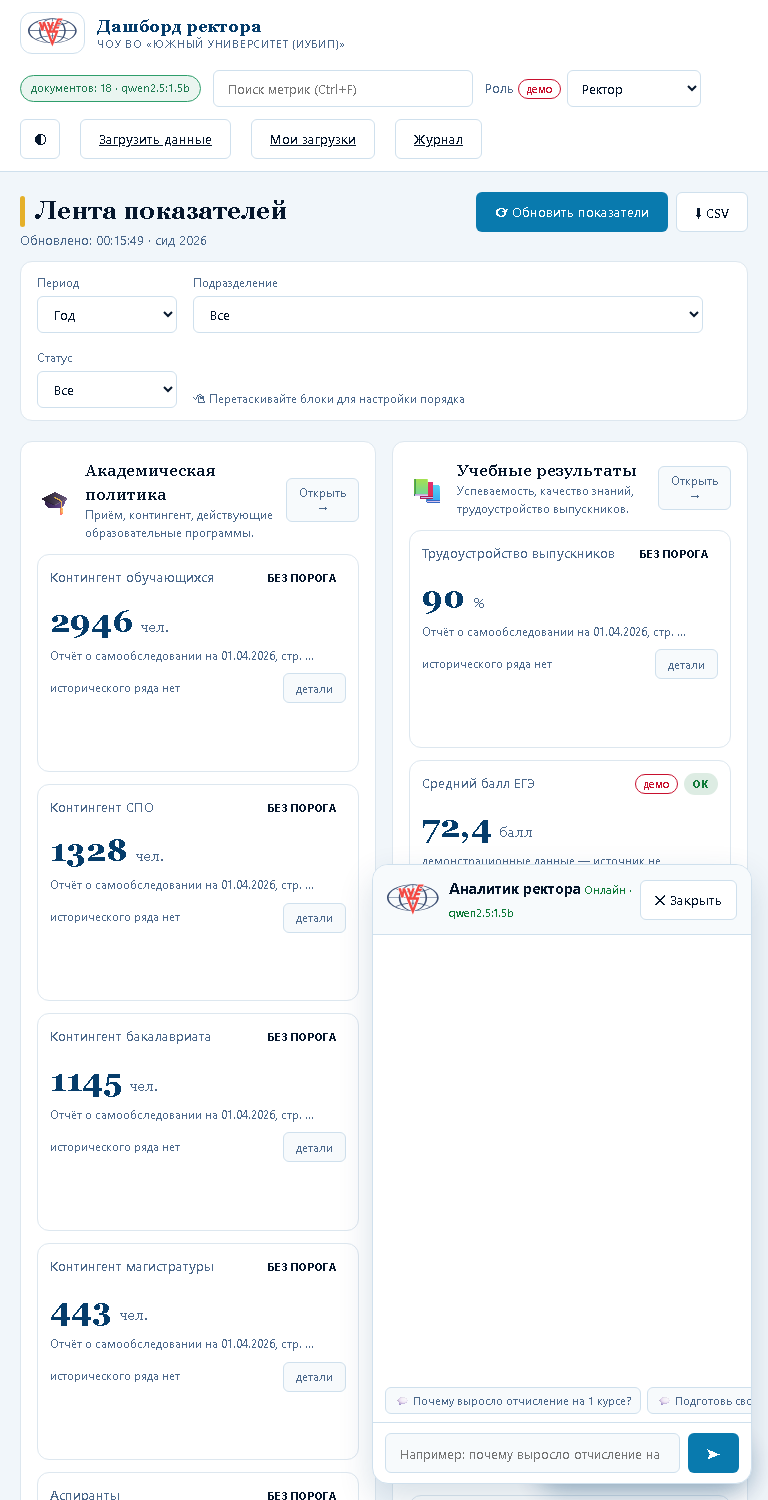
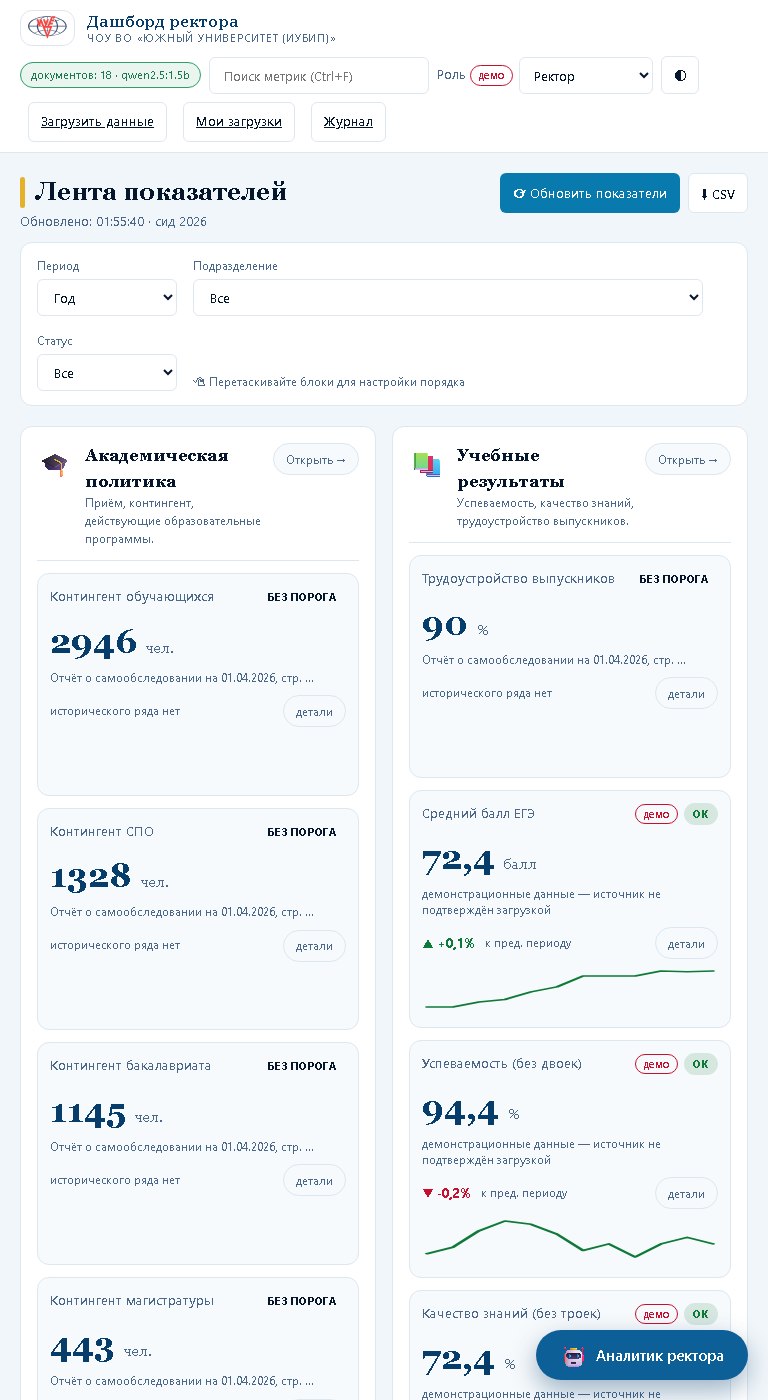
Токены в базовые правила и плотная вёрстка
Слой-надстройка в конце style.css перенесён в базовые правила:
четыре ступени поверхностей, hairline вместо теней, три радиуса,
вес не выше 600, плоские карточки с линией вместо второй рамки.
Файл читается как одна система, а не «старое плюс заплатка».

Заметные изменения: заголовок блока крупнее и подчёркнут линией,
кнопка «Открыть» вынесена в угол и больше не сжимает текст, шапка
и контролы компактнее, крупная цифра 34px.

Снимки «после» пересняты для трёх экранов в трёх ширинах.

diff --git a/web/css/style.css b/web/css/style.css
@@ -5,10 +5,14 @@
    светлая azure-подложка, белые карточки, navy-акцент, янтарь для
    главных действий, серифные заголовки, капсульные контролы. */
 :root {
-  --bg: #ebf7ff;                /* его --surface: светлый бирюзовый тон */
+  /* Четыре ступени поверхностей. Раньше карточки отличались от фона
+     только тенью — на проекторе это выглядело как грязь. */
+  --bg: #f1f6fa;
   --surface: #ffffff;
-  --surface-2: #f4fafd;
-  --border: #cfe0ed;            /* его --line */
+  --surface-2: #f7fafc;
+  --surface-3: #ffffff;
+  --border: #dde7ef;            /* hairline-граница */
+  --border-strong: #c2d3e1;     /* граница при наведении */
   --text: #06172d;              /* его --ink */
   --muted: #4b688b;             /* его --ink-soft */
   --primary: #097aae;           /* его --azure */
@@ -22,20 +26,26 @@
   --green: #0f7a38;
   --yellow: #a8801a;
   --red: #c8102e;
-  --shadow: 0 1px 3px rgba(6, 61, 107, .08), 0 2px 8px rgba(6, 61, 107, .06);
-  --shadow-lg: 0 12px 32px rgba(6, 61, 107, .16);
-  --radius: 16px;
-  --radius-sm: 10px;
+  --shadow: none;               /* карточки плоские: разделяет граница */
+  --shadow-lg: 0 14px 34px rgba(6, 61, 107, .16);  /* только всплывающее */
+  /* Три радиуса на всю систему: контролы, карточки, статусы. */
+  --r-control: 6px;
+  --r-card: 12px;
+  --r-pill: 999px;
+  --radius: var(--r-card);
+  --radius-sm: var(--r-control);
   --font-display: Georgia, "Times New Roman", serif;
   --fab-bg: #0c5f97;            /* пилюля чата: navy днём, белая ночью */
   --fab-fg: #ffffff;
   --fab-shadow: 0 10px 26px rgba(6, 61, 107, .38);
 }
 html[data-theme="dark"] {
-  --bg: #0f0f0f;                /* его тёмная подложка */
-  --surface: #1f1f1f;
-  --surface-2: #262626;
-  --border: #383838;
+  --bg: #0c0d0e;
+  --surface: #141516;
+  --surface-2: #1b1c1e;
+  --surface-3: #202225;
+  --border: #2a2c30;
+  --border-strong: #3a3d42;
   --text: #f5f5f5;
   --muted: #adadad;
   --primary: #0b78ab;
@@ -48,8 +58,8 @@ html[data-theme="dark"] {
   --green: #2fa363;
   --yellow: #d9a441;
   --red: #e35d6a;
-  --shadow: 0 1px 3px rgba(0,0,0,.4);
-  --shadow-lg: 0 12px 32px rgba(0,0,0,.55);
+  --shadow: none;
+  --shadow-lg: 0 14px 34px rgba(0,0,0,.6);
   --fab-bg: #ffffff;
   --fab-fg: #141414;
   --fab-shadow: 0 10px 26px rgba(0,0,0,.6);
@@ -71,7 +81,7 @@ body {
    Georgia, цифры-итоги — тоже. */
 h1, h2, h3, h4, .brand-text strong, .page-head h1, .page-head h2 {
   font-family: var(--font-display);
-  font-weight: 700;
+  font-weight: 600;
   letter-spacing: -.01em;
 }
 button { font-family: inherit; cursor: pointer; }
@@ -83,7 +93,7 @@ input, select, textarea { font-family: inherit; }
 
 /* ============ Шапка ============ */
 .app-header { position: sticky; top: 0; z-index: 20; background: var(--surface); border-bottom: 1px solid var(--border); }
-.header-inner { max-width: 1280px; margin: 0 auto; padding: 12px 20px; display: flex; align-items: center; justify-content: space-between; gap: 16px; flex-wrap: wrap; }
+.header-inner { max-width: 1280px; margin: 0 auto; padding: 10px 20px; display: flex; align-items: center; justify-content: space-between; gap: 10px; flex-wrap: wrap; }
 .brand { display: flex; align-items: center; gap: 12px; }
 /* Бренд-блок — ссылка на главную: с ленты иначе не вернуться,
    кроме «назад» браузера. */
@@ -92,26 +102,26 @@ a.brand:hover strong { color: var(--primary); }
 /* Плитка под логотип: белый квадрат со скруглением — как logo-tile
    в его шапке. Знак рассчитан на белый фон, поэтому всегда на белом. */
 .brand-logo {
-  height: 42px; width: auto; flex-shrink: 0;
+  height: 36px; width: auto; flex-shrink: 0;
   background: #fff; border: 1px solid var(--border);
   border-radius: 12px; padding: 5px 7px;
 }
 .brand-mark { width: 42px; height: 42px; border-radius: 12px; background: linear-gradient(135deg, var(--navy), var(--primary)); color: #fff; display: flex; align-items: center; justify-content: center; font-weight: 700; font-size: 15px; }
 .brand-text { display: flex; flex-direction: column; line-height: 1.25; }
-.brand-text strong { font-size: 17px; color: var(--navy-deep); }
+.brand-text strong { font-size: 16px; color: var(--navy-deep); }
 html[data-theme="dark"] .brand-text strong { color: #fff; }
 .brand-text span {
   font-size: 11px; text-transform: uppercase; letter-spacing: .07em;
   color: var(--muted);
 }
-.header-controls { display: flex; align-items: center; gap: 12px; flex-wrap: wrap; }
+.header-controls { display: flex; align-items: center; gap: 8px; flex-wrap: wrap; }
 .search-wrap { position: relative; }
-.search-wrap input { width: 260px; max-width: 70vw; padding: 9px 34px 9px 14px; border: 1px solid var(--border); border-radius: 999px; background: var(--surface); color: var(--text); }
+.search-wrap input { width: 220px; max-width: 70vw; padding: 9px 34px 9px 14px; border: 1px solid var(--border); border-radius: var(--radius-sm); background: var(--surface); color: var(--text); }
 .search-wrap input:focus { outline: none; border-color: var(--primary); box-shadow: 0 0 0 3px rgba(9,122,174,.18); }
 .search-badge { position: absolute; right: 8px; top: 50%; transform: translateY(-50%); background: var(--primary); color: #fff; font-size: 11px; border-radius: 999px; padding: 1px 7px; }
 .role-switch { display: flex; align-items: center; gap: 6px; font-size: 13px; color: var(--muted); }
-.role-switch select { padding: 8px 10px; border: 1px solid var(--border); border-radius: 999px; background: var(--surface); color: var(--text); }
-.icon-btn { width: 40px; height: 40px; border-radius: 999px; border: 1px solid var(--border); background: var(--surface); color: var(--text); font-size: 16px; display: inline-flex; align-items: center; justify-content: center; }
+.role-switch select { padding: 8px 10px; border: 1px solid var(--border); border-radius: var(--radius-sm); background: var(--surface); color: var(--text); }
+.icon-btn { width: 38px; height: 38px; border-radius: var(--radius-sm); border: 1px solid var(--border); background: var(--surface); color: var(--text); font-size: 16px; display: inline-flex; align-items: center; justify-content: center; }
 .icon-btn:hover { border-color: var(--primary); color: var(--primary); }
 
 /* ============ Основная область ============ */
@@ -132,7 +142,7 @@ html[data-theme="dark"] .brand-text strong { color: #fff; }
 
 /* ============ Кнопки ============ */
 /* Капсула (radius-control) — его фирменная форма контролов. */
-.btn { padding: 9px 18px; border-radius: 999px; border: 1px solid transparent; font-size: 13px; font-weight: 600; transition: .15s; white-space: nowrap; min-height: 40px; }
+.btn { padding: 8px 12px; border-radius: var(--radius-sm); border: 1px solid transparent; font-size: 13px; font-weight: 600; transition: .15s; white-space: nowrap; min-height: 40px; }
 .btn-primary { background: var(--primary); color: #fff; }
 .btn-primary:hover { background: var(--primary-hover); transform: translateY(-1px); }
 .btn-outline { background: var(--surface); color: var(--text); border-color: var(--border); }
@@ -189,13 +199,13 @@ html[data-theme="dark"] .brand-text strong { color: #fff; }
 /* ============ Фильтры ============ */
 .filter-bar { display: flex; gap: 16px; align-items: flex-end; flex-wrap: wrap; padding: 14px 16px; background: var(--surface); border: 1px solid var(--border); border-radius: var(--radius); margin: 12px 0 20px; box-shadow: var(--shadow); }
 .filter-group { display: flex; flex-direction: column; gap: 4px; font-size: 12px; color: var(--muted); }
-.filter-group select { padding: 8px 12px; border: 1px solid var(--border); border-radius: 999px; background: var(--surface); color: var(--text); min-width: 140px; }
+.filter-group select { padding: 8px 12px; border: 1px solid var(--border); border-radius: var(--radius-sm); background: var(--surface); color: var(--text); min-width: 140px; }
 .filter-tip span { align-self: center; font-size: 12px; color: var(--muted); }
 
 /* ============ Сетка виджетов ============ */
 .widget-grid { display: grid; grid-template-columns: repeat(auto-fill, minmax(300px, 1fr)); gap: 16px; }
 .widget { background: var(--surface); border: 1px solid var(--border); border-radius: var(--radius); padding: 16px; box-shadow: var(--shadow); cursor: grab; transition: box-shadow .18s, transform .18s, border-color .18s; position: relative; }
-.widget:hover { border-color: var(--primary); transform: translateY(-2px); box-shadow: var(--shadow-lg); }
+.widget:hover { border-color: var(--border-strong); }
 .widget:active { cursor: grabbing; }
 .widget.dragging { opacity: .6; transform: scale(.98); }
 .widget.with-alert::after { content: "🔔"; position: absolute; top: 12px; right: 12px; font-size: 13px; }
@@ -203,7 +213,7 @@ html[data-theme="dark"] .brand-text strong { color: #fff; }
 .widget-badges { display: inline-flex; align-items: center; gap: 6px; flex: none; }
 .widget-title { font-weight: 600; font-size: 13px; color: var(--muted); }
 /* Итоговая цифра — серифная и navy, как KPI в его карточках. */
-.widget-value { font-family: var(--font-display); font-size: 32px; font-weight: 700; color: var(--navy-deep); margin: 6px 0 2px; }
+.widget-value { font-family: var(--font-display); font-size: 34px; font-weight: 600; color: var(--navy-deep); margin: 6px 0 2px; }
 html[data-theme="dark"] .widget-value { color: #fff; }
 /* Источник числа прямо на карточке: решение, принятое по цифре,
    должно быть подписано, а источник — рядом с цифрой, а не за
@@ -226,7 +236,7 @@ html[data-theme="dark"] .widget-value { color: #fff; }
 .status-red { background: rgba(200,16,46,.13); color: var(--red); }
 .trend { display: inline-flex; flex-wrap: wrap; gap: 10px; align-items: center; }
 .mini-actions { display: flex; gap: 6px; }
-.mini-btn { font-size: 12px; padding: 6px 12px; border-radius: 999px; border: 1px solid var(--border); background: var(--surface-2); color: var(--muted); min-height: 30px; }
+.mini-btn { font-size: 12px; padding: 6px 12px; border-radius: 999px; border: 1px solid var(--border); background: var(--surface-2); color: var(--muted); min-height: 32px; }
 .mini-btn:hover { color: var(--primary); border-color: var(--primary); }
 
 /* ============ Детализация блока ============ */
@@ -235,7 +245,8 @@ html[data-theme="dark"] .widget-value { color: #fff; }
 .chart-wrap { width: 100%; overflow-x: auto; }
 .chart-svg { width: 100%; min-width: 360px; height: auto; display: block; }
 .metric-row { display: grid; grid-template-columns: repeat(auto-fill, minmax(200px, 1fr)); gap: 14px; margin-bottom: 20px; }
-.metric-cell { background: var(--surface-2); border: 1px solid var(--border); border-radius: 10px; padding: 14px; }
+/* Второй уровень — линия, а не ещё одна карточка в карточке. */
+.metric-cell { background: transparent; border: 0; border-top: 1px solid var(--border); border-radius: 0; padding: 12px 0 0; }
 .metric-cell .label { font-size: 12px; color: var(--muted); }
 .metric-cell .value { font-size: 22px; font-weight: 700; margin-top: 2px; }
 /* ============ Таблицы ============ */
@@ -292,10 +303,10 @@ table.data td.clickable { color: var(--primary); font-weight: 600; cursor: point
 }
 .ai-actions::-webkit-scrollbar { height: 0; display: none; }
 .ai-actions .chip { flex: none; white-space: nowrap; }
-.ai-actions .chip { font-size: 11px; padding: 5px 9px; border-radius: 20px; border: 1px solid var(--border); background: var(--surface-2); color: var(--muted); }
+.ai-actions .chip { font-size: 11px; padding: 5px 9px; border-radius: var(--radius-sm); border: 1px solid var(--border); background: var(--surface-2); color: var(--muted); }
 .ai-actions .chip:hover { color: var(--primary); border-color: var(--primary); }
 .ai-input { display: flex; gap: 8px; padding: 10px 12px; border-top: 1px solid var(--border); }
-.ai-input input { flex: 1; padding: 10px 14px; border: 1px solid var(--border); border-radius: 999px; background: var(--surface-2); color: var(--text); }
+.ai-input input { flex: 1; padding: 10px 14px; border: 1px solid var(--border); border-radius: var(--radius-sm); background: var(--surface-2); color: var(--text); }
 /* Пилюля-кнопка чата: заметная, с подписью — значка 🤖 одного мало,
    чтобы её нашли. Днём — navy, ночью — белая капсула (его orb). */
 .ai-fab {
@@ -390,11 +401,13 @@ table.data td.clickable { color: var(--primary); font-weight: 600; cursor: point
 
 /* ============ Группы виджетов по блокам ============ */
 .widget-block { background: var(--surface); border: 1px solid var(--border); border-radius: var(--radius); padding: 16px; box-shadow: var(--shadow); cursor: grab; transition: border-color .18s, box-shadow .18s, transform .18s; }
-.widget-block:hover { border-color: var(--primary); box-shadow: var(--shadow-lg); }
+.widget-block:hover { border-color: var(--border-strong); }
 .widget-block.dragging { opacity: .55; }
-.widget-block-head { display: flex; align-items: center; gap: 12px; }
+.widget-block-head { position: relative; display: flex; align-items: flex-start; gap: 12px; padding-bottom: 12px; padding-right: 88px; border-bottom: 1px solid var(--border); }
+.widget-block-head .open-block { position: absolute; top: 0; right: 0; margin-left: 0; }
+.widget-block-head > div { min-width: 0; }
 .widget-block-icon { font-size: 26px; }
-.widget-block-head h3 { font-size: 16px; margin: 0; }
+.widget-block-head h3 { font-size: 17px; margin: 0; }
 .widget-block-head .sub { font-size: 12px; }
 .widget-block-head .open-block { margin-left: auto; }
 .widget-mini-grid { display: grid; grid-template-columns: repeat(auto-fill, minmax(240px, 1fr)); gap: 12px; margin-top: 12px; }
@@ -684,140 +697,6 @@ html[data-theme="dark"] .metrics-value { color: #fff; }
 
   .spark { max-width: 100%; }
 }
-
-/* ============================================================
-   Слой дизайн-токенов (design/tokens, 2026-11-06)
-   ------------------------------------------------------------
-   Что и откуда взято. Значения — из каталога GradientDeck, стиль
-   linear (https://ui.gradientdeck.com/styles/linear/design.md).
-   Взята только структура, потому что структура и есть то, чего не
-   хватало: лестница поверхностей, границы вместо теней, три
-   радиуса, ограниченный вес шрифта. Палитра и серифные заголовки
-   остались наши — это идентичность ИУБиП, а не заимствование.
-
-   Чего НЕ взято из linear: тёмная тема по умолчанию, кислотный
-   акцент, дисплейная типографика 48-72px. Дашборд смотрят с
-   проектора в кабинете, а не с рекламного лендинга.
-
-   Нормативный документ — DESIGN.md в корне. Этот блок — его
-   исполнение в CSS; при расхождении прав DESIGN.md, а не этот файл.
-   ============================================================ */
-
-:root {
-  /* Лестница поверхностей: четыре ступени вместо двух. Раньше
-     карточки отличались от фона только тенью — из-за этого на
-     проекторе они «плыли». */
-  --bg: #f1f6fa;
-  --surface: #ffffff;
-  --surface-2: #f7fafc;
-  --surface-3: #ffffff;
-
-  /* Hairline вместо тени: граница 1px читается на любом экране,
-     тень на слабом проекторе превращается в грязь. */
-  --line: #dde7ef;
-  --line-strong: #c2d3e1;
-
-  --shadow: none;                                   /* карточки — плоско */
-  --shadow-lg: 0 14px 34px rgba(6, 61, 107, .16);   /* только всплывающее */
-
-  /* Три радиуса на всю систему. Было семь разных значений. */
-  --r-control: 6px;    /* кнопки, поля, селекты */
-  --r-card: 12px;      /* карточки и панели */
-  --r-pill: 999px;     /* только статусы и чипы */
-  --radius: var(--r-card);
-  --radius-sm: var(--r-control);
-
-  --font-num: "Segoe UI", Roboto, Arial, sans-serif;
-}
-
-html[data-theme="dark"] {
-  --bg: #0c0d0e;
-  --surface: #141516;
-  --surface-2: #1b1c1e;
-  --surface-3: #202225;
-  --line: #2a2c30;
-  --line-strong: #3a3d42;
-  --shadow: none;
-  --shadow-lg: 0 14px 34px rgba(0, 0, 0, .6);
-}
-
-/* --- Радиусы: капсулы остались только у статусов ---------------- */
-.search-wrap input,
-.role-switch select,
-.filter-group select,
-.icon-btn,
-.btn,
-.mini-btn,
-.ai-input input,
-.ai-actions .chip { border-radius: var(--r-control); }
-
-.status-pill,
-.search-badge { border-radius: var(--r-pill); }
-
-/* --- Плоскость вместо теней ------------------------------------ */
-.widget,
-.widget-block,
-.section-card,
-.filter-bar {
-  box-shadow: none;
-  border-color: var(--line);
-}
-
-.widget:hover,
-.widget-block:hover {
-  border-color: var(--line-strong);
-  box-shadow: none;
-  transform: none;
-}
-
-/* Вложенная карточка в карточке — двойная рамка и двойная «тень»,
-   читается как случайность. Оставляем только линию-разделитель. */
-.metric-cell {
-  background: transparent;
-  border: 0;
-  border-top: 1px solid var(--line);
-  border-radius: 0;
-  padding: 12px 0 0;
-}
-
-.metric-widget {
-  background: var(--surface);
-  border-color: var(--line);
-  border-radius: var(--r-card);
-}
-
-/* --- Типографика: вес не выше 600, цифры табличные ------------ */
-h1, h2, h3, h4,
-.brand-text strong,
-.page-head h1,
-.page-head h2 { font-weight: 600; }
-
-/* Крупные числа остаются серифными (Georgia) — это подпись нашей
-   системы, и без неё дашборд становится неотличим от админки.
-   Табличные цифры включаем там, где важно выравнивание по колонке:
-   строки таблиц, а не отдельные карточки. */
-.metrics-value,
-.metric-widget .value,
-table.data td {
-  font-variant-numeric: tabular-nums;
-  font-feature-settings: "tnum" 1;
-}
-
-/* Подписи метрик — не капсом вразрядку, а обычным регистром:
-   пять строк капса подряд читаются как крик. */
-.metric-cell .label,
-.metric-widget .label { letter-spacing: 0; text-transform: none; }
-
-/* --- Одно главное действие ------------------------------------- */
-/* Акцент остаётся один — azure. Янтарь больше не красит кнопки:
-   он только метит демонстрационные данные, иначе перестаёт значить. */
-.btn-warning,
-.btn-amber { background: var(--azure-soft); color: var(--navy-deep); border-color: var(--line-strong); }
-
-/* --- Плотность: шкала 8 / 12 / 24 ------------------------------ */
-.section-card { padding: 20px 24px; }
-.metric-row { gap: 10px 24px; }
-.filter-bar { padding: 12px 16px; }
 
 /* ============================================================
    Телефон: панель ассистента и шапка

diff --git a/web/index.html b/web/index.html
@@ -5,7 +5,7 @@
   <meta name="viewport" content="width=device-width, initial-scale=1.0" />
   <title>Дашборд ректора · Южный университет (ИУБиП)</title>
   <link rel="icon" type="image/svg+xml" href="img/iubip-logo.svg" />
-  <link rel="stylesheet" href="css/style.css?v=20261106-0019" />
+  <link rel="stylesheet" href="css/style.css?v=20261106-0155" />
   <style>
     /* ---------- Первый экран: лендинг-вход ----------
        Палитра дизайн-системы eagle1man: светлая azure-подложка днём,

diff --git a/web/review.html b/web/review.html
@@ -5,7 +5,7 @@
   <meta name="viewport" content="width=device-width, initial-scale=1.0" />
   <title>Проверка загрузки · Дашборд ректора ИУБиП</title>
   <link rel="icon" type="image/svg+xml" href="img/iubip-logo.svg" />
-  <link rel="stylesheet" href="css/style.css?v=20261106-0019" />
+  <link rel="stylesheet" href="css/style.css?v=20261106-0155" />
 </head>
 <body>
   <header class="app-header">

diff --git a/web/upload.html b/web/upload.html
@@ -5,7 +5,7 @@
   <meta name="viewport" content="width=device-width, initial-scale=1.0" />
   <title>Загрузка данных · Дашборд ректора ИУБиП</title>
   <link rel="icon" type="image/svg+xml" href="img/iubip-logo.svg" />
-  <link rel="stylesheet" href="css/style.css?v=20261106-0019" />
+  <link rel="stylesheet" href="css/style.css?v=20261106-0155" />
 </head>
 <body>
   <header class="app-header">

diff --git a/web/dashboard.html b/web/dashboard.html
@@ -5,7 +5,7 @@
   <meta name="viewport" content="width=device-width, initial-scale=1.0" />
   <title>Дашборд ректора · Южный университет (ИУБиП)</title>
   <link rel="icon" type="image/svg+xml" href="img/iubip-logo.svg" />
-  <link rel="stylesheet" href="css/style.css?v=20261106-0019" />
+  <link rel="stylesheet" href="css/style.css?v=20261106-0155" />
 </head>
 <body>
   <!-- Шапка -->

diff --git a/web/journal.html b/web/journal.html
@@ -5,7 +5,7 @@
   <meta name="viewport" content="width=device-width, initial-scale=1.0" />
   <title>Журнал событий · Дашборд ректора ИУБиП</title>
   <link rel="icon" type="image/svg+xml" href="img/iubip-logo.svg" />
-  <link rel="stylesheet" href="css/style.css?v=20261106-0019" />
+  <link rel="stylesheet" href="css/style.css?v=20261106-0155" />
 </head>
 <body>
   <header class="app-header">

diff --git a/web/uploads.html b/web/uploads.html
@@ -5,7 +5,7 @@
   <meta name="viewport" content="width=device-width, initial-scale=1.0" />
   <title>Мои загрузки · Дашборд ректора ИУБиП</title>
   <link rel="icon" type="image/svg+xml" href="img/iubip-logo.svg" />
-  <link rel="stylesheet" href="css/style.css?v=20261106-0019" />
+  <link rel="stylesheet" href="css/style.css?v=20261106-0155" />
 </head>
 <body>
   <header class="app-header">
